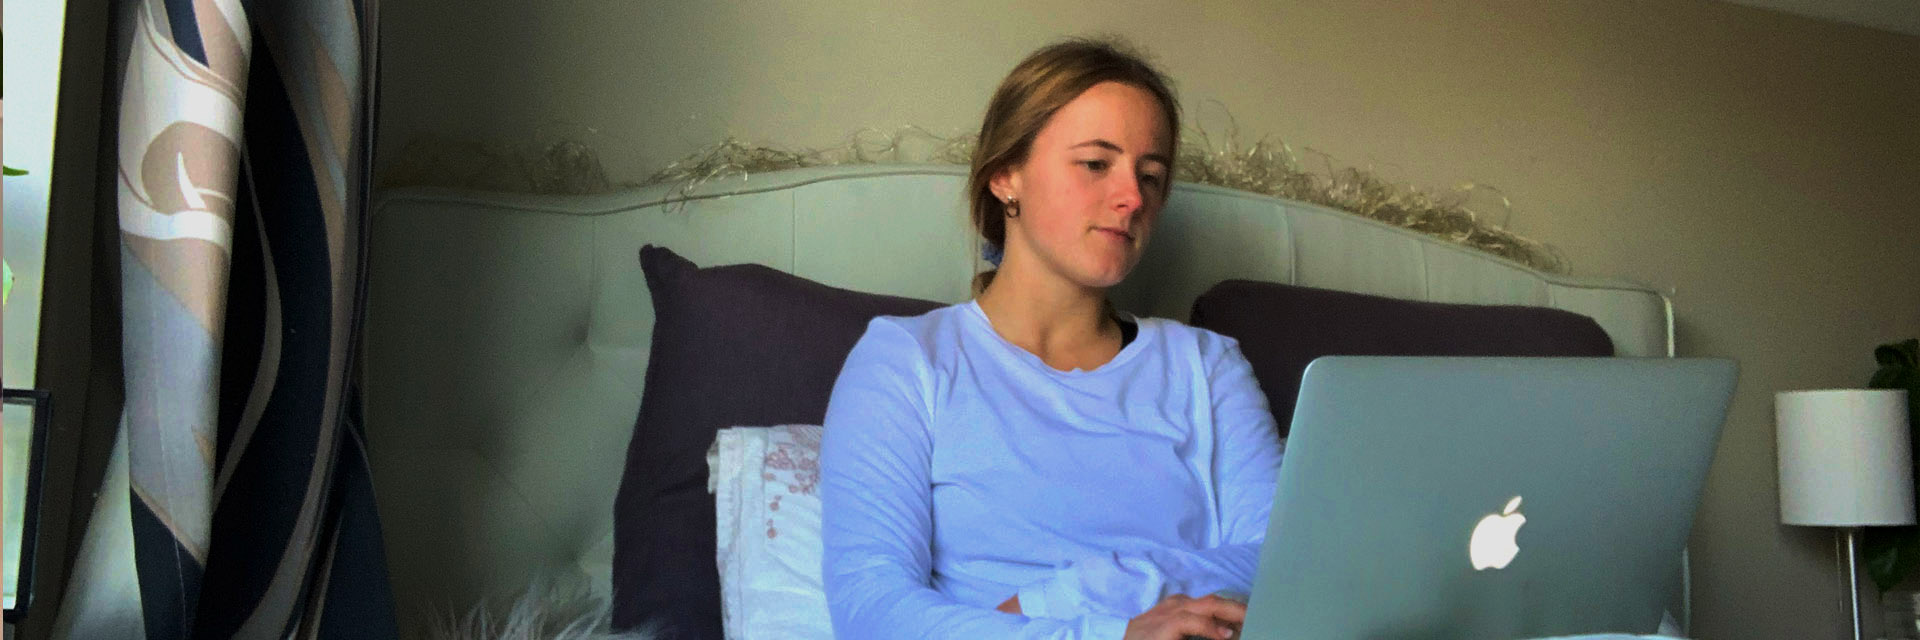
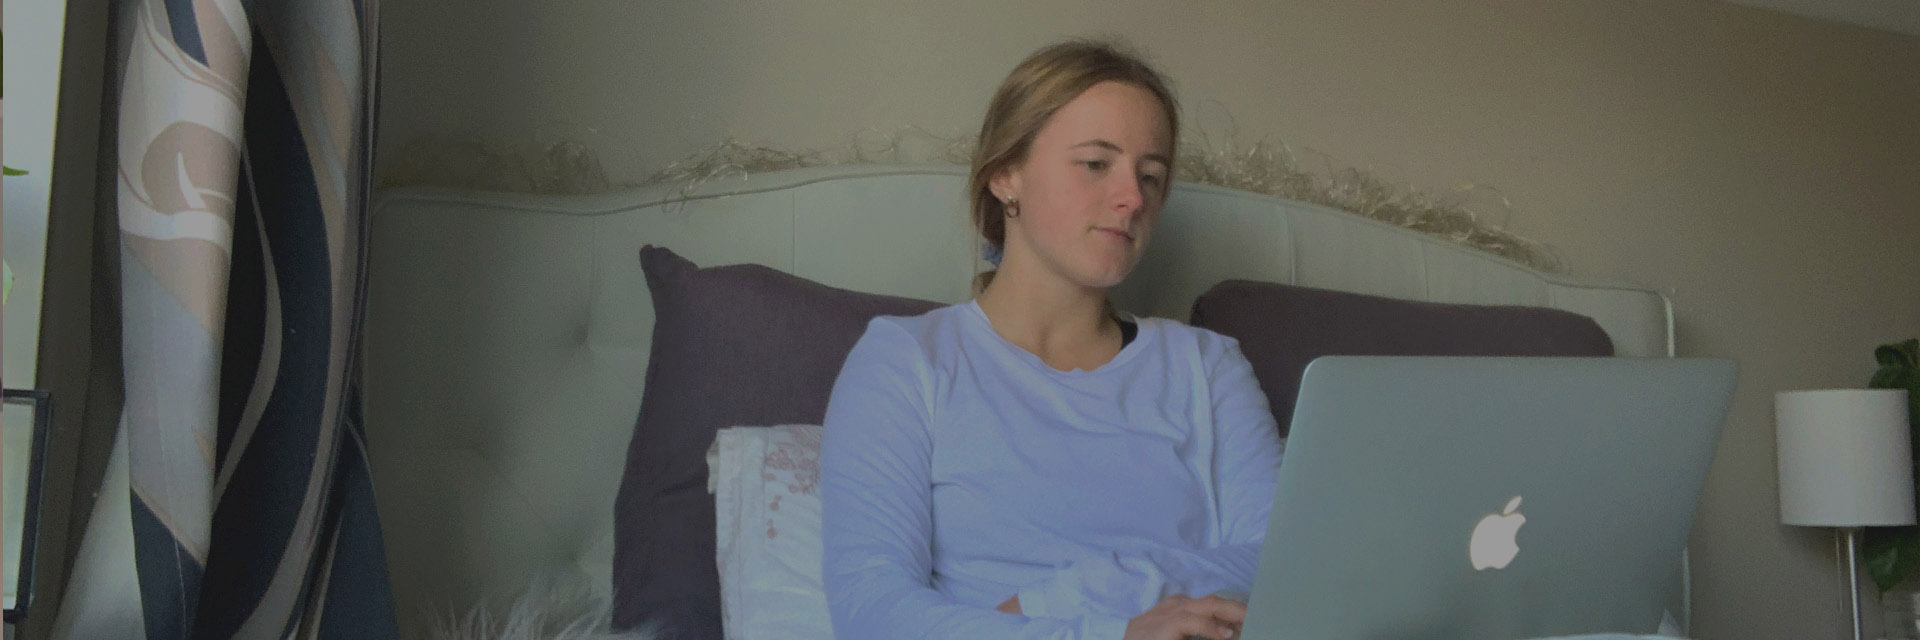
still trying to fix

diff --git a/sketch.js b/sketch.js
@@ -37,7 +37,7 @@ function draw() {
     let pixMod = sourceImg.get(x, y);
     console.log(mask[0]);
 
-    if (mask[0] > 72 && mask[0] < 76) { //dark grey mask (red)
+    if (mask[0] == 73) { //dark grey mask (red)
       let pixMod = sourceImg.get(x, y);
       let mask = maskImg.get(x, y);
       pixMod[0] = pixMod[0] * 2;
@@ -60,12 +60,12 @@ function draw() {
       noStroke();
       fill(pixMod);
 
-      if (mask[0] == 255) {   //white mask (model)
+      if (mask[0] > 230) {   //white mask (model)
         stroke(pixMod);
         line(x2, y2, x2, y2 + 200);
 
 
-      } else if (mask[0] < 146 && mask[0] > 120) { //light grey mask (orange)
+      } else if (mask[0] < 130 && mask[0] > 125) { //light grey mask (orange)
         fill(245, 158, 66);
         strokeWeight(5);
         strokeCap(ROUND);
@@ -90,7 +90,7 @@ function draw() {
     console.log("Done!")
     noLoop();
     // uncomment this to save the result
-    saveArtworkImage(outputFile);
+    // saveArtworkImage(outputFile);
   }
 }
 

diff --git a/README.md b/README.md
@@ -1,7 +1,3 @@
 ## Creative Coding 2: Custom Pixel
 
-After looking at my three series images together, I realised that the 1st and 2nd images, the brightness is much lower than the 3rd one. This is probably due to the images being taken at different ties in the day. A possible solution would be to slightly edit the brightness in the 3rd image.
-
-I also noticed that the stripey lines in the 1st image are much more harsh than the 2nd and 3rd. I am unsure why that could be and hoping that it is something I can easily resolve as I think it looks really distracting.
-
-However, as a full series I think the images look really good together. I will however, continue to adjust and play around with the final editing of the images and deal with the orange line issue. I think I would also like to add in a custom shape for certain parts of the image.
+Been struggling with the 3rd image and adjusting the original image to be the same brightness as the others. Might have to quickly re-shoot these ones. Need to fix up the mask on the 2nd image as well, as there is a glitch with the white mask. 
